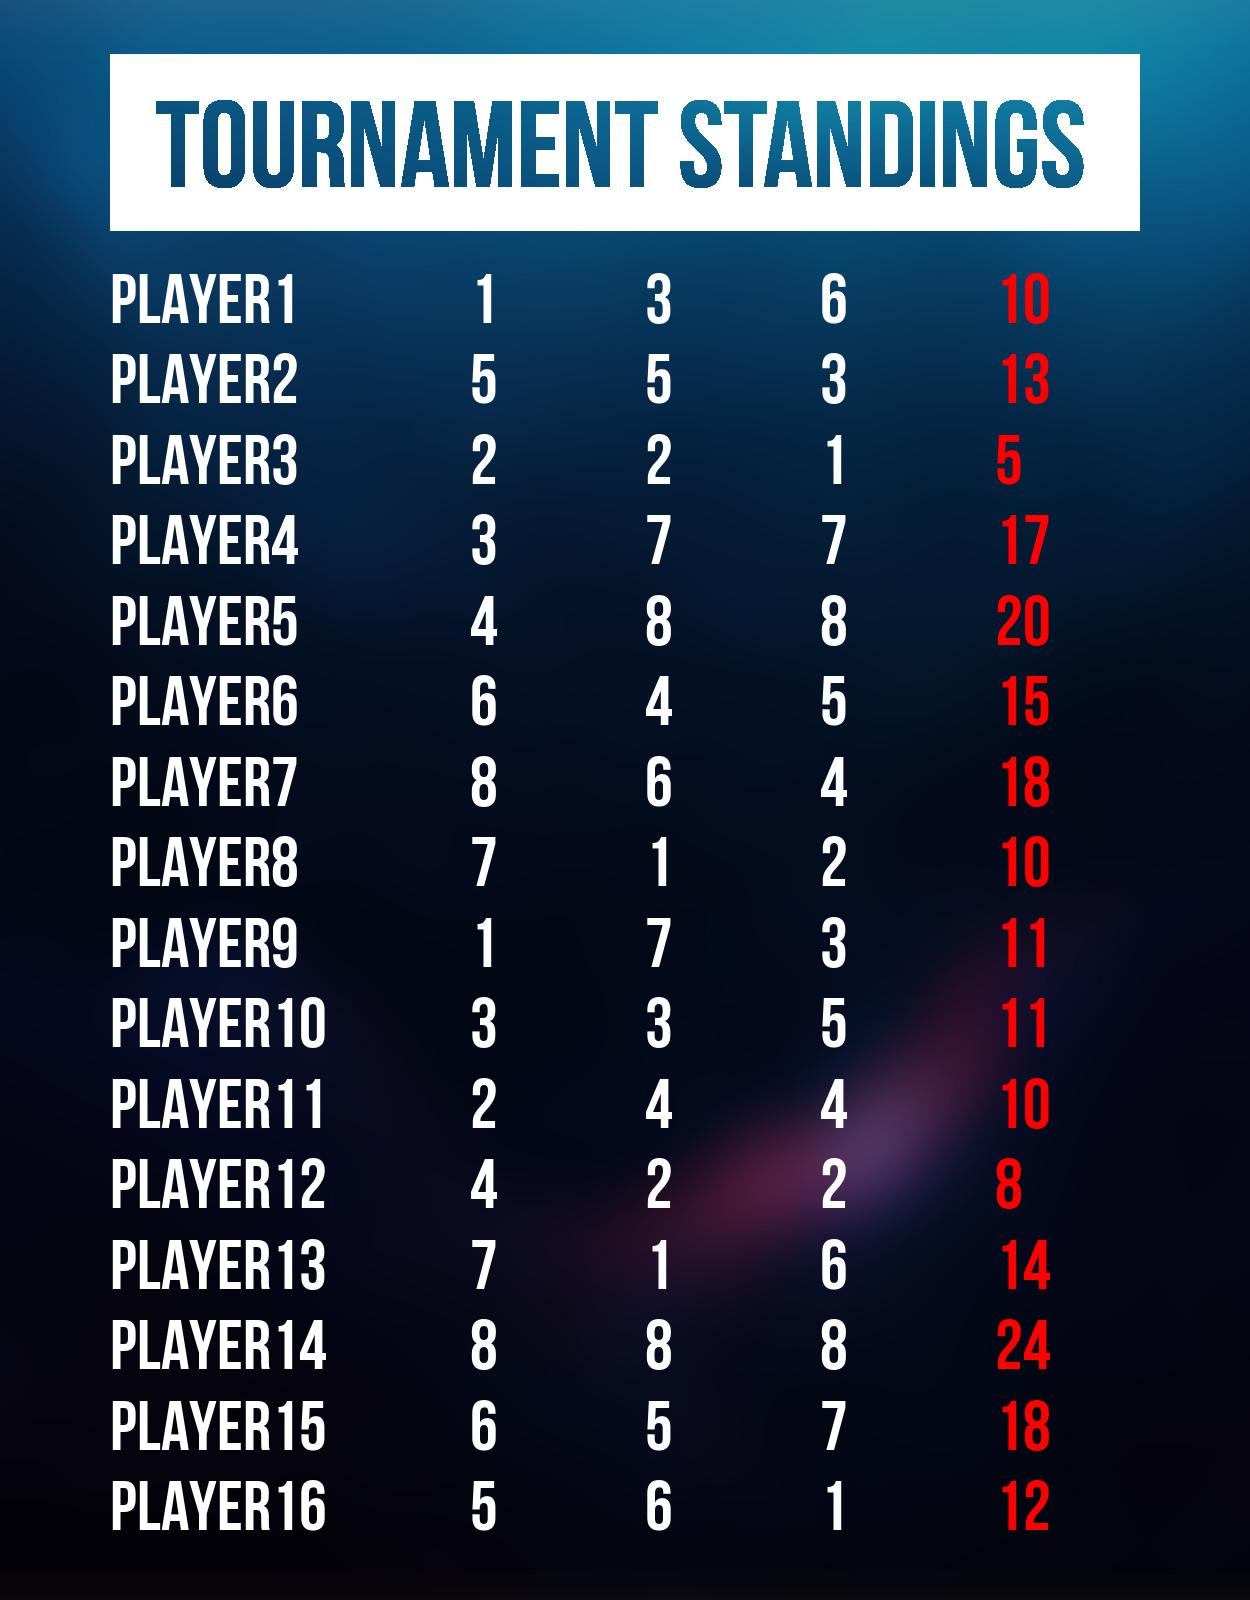
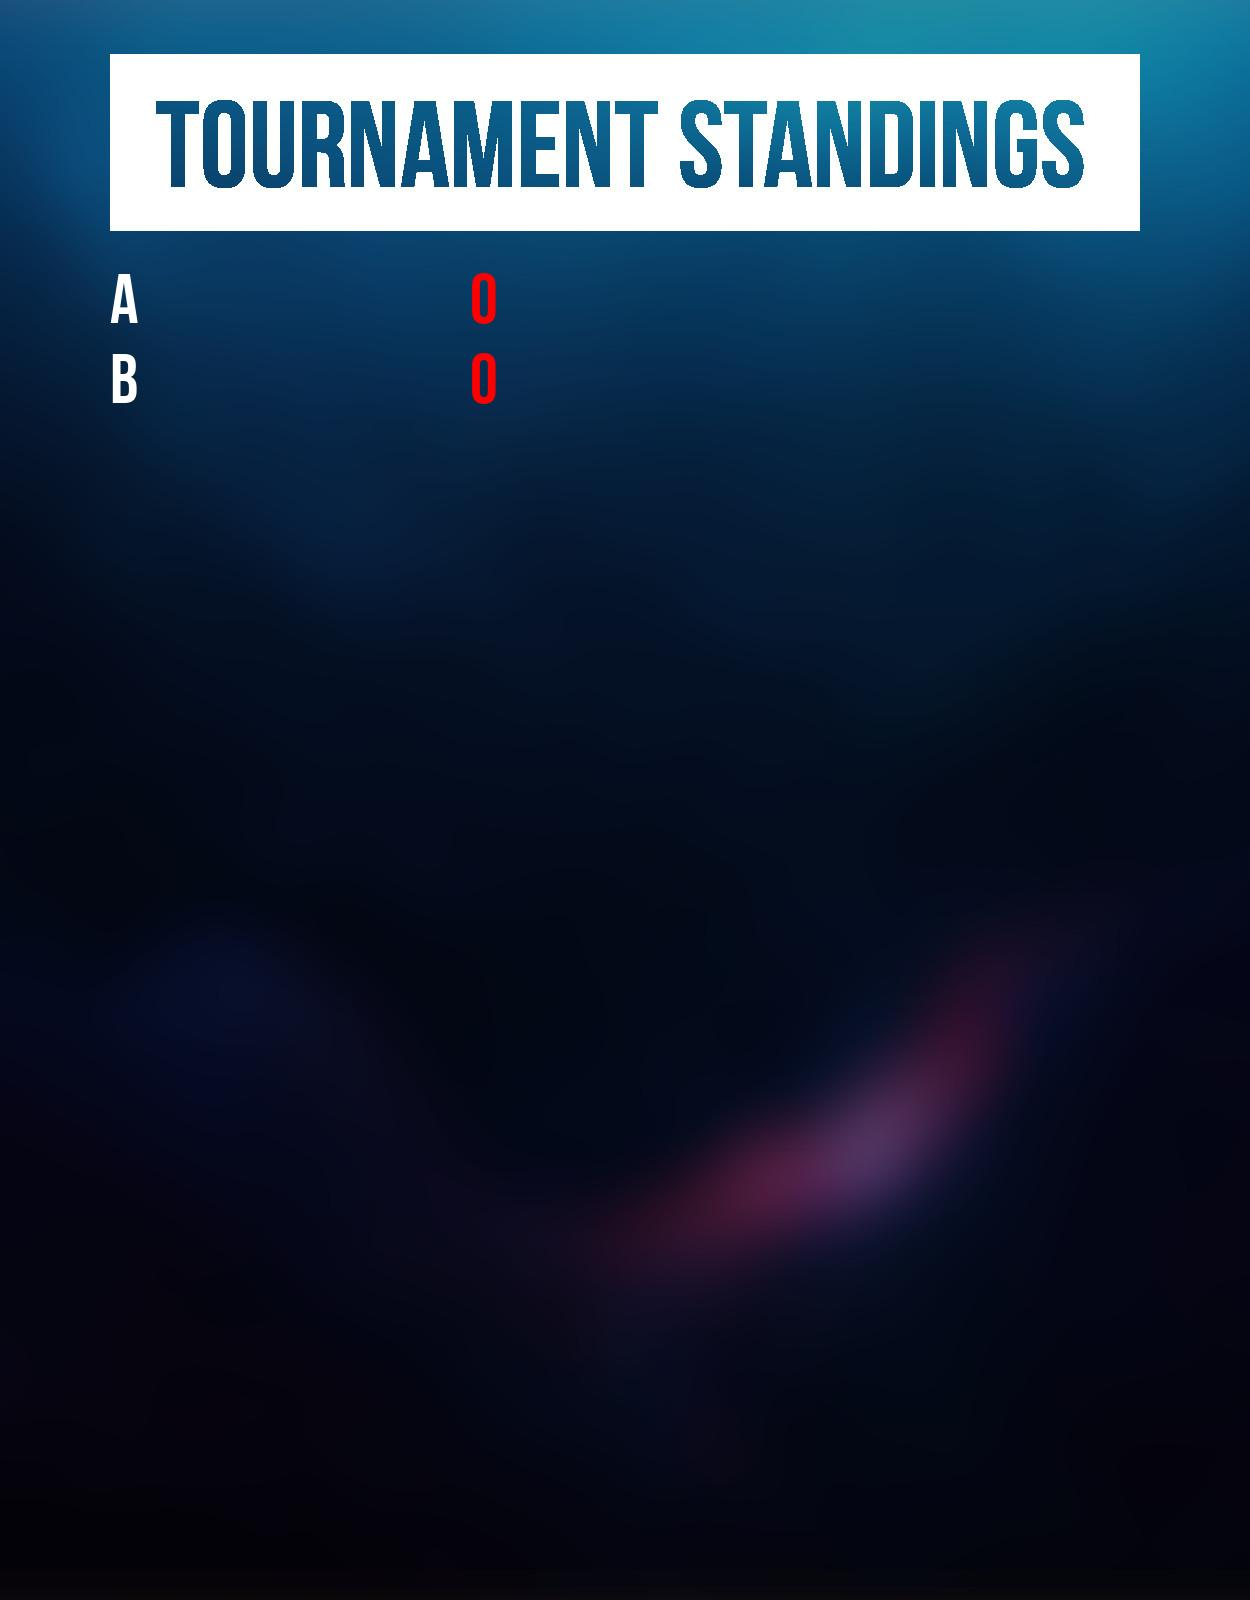
Added and refactored to use player object, added Discord bot commands to render/publish images

diff --git a/scoreboard.py b/scoreboard.py
@@ -1,48 +1,222 @@
+import os
 from PIL import Image
 from PIL import ImageDraw
 from PIL import ImageFont
+import discord
 
 playerDict = {}  # KEY: Player name, VAL: Array of scores
 fontSize = 70
-img = Image.open("standings_empty.jpg")
-draw = ImageDraw.Draw(img)
 fontName = ""
 font = ImageFont.truetype(fontName, fontSize)
-textHorizontalPos = 110
+textHorizontalPos = 80
 textVerticalPos = 270
-nameSpacing = fontSize*2.65
+nameSpacing = fontSize * 2.85
+spacingPerScore = 8
+firstAndTotalTextSpacing = 1255
+
+render_input_image = "input_render.jpg"
+publish_input_image = "input_publish2.jpg"  # Must be absolute path when deployed for whatever reason
+
+render_image_filename = "render"
+publish_image_filename = "publish"
+
+# ENVIRONMENT VARIABLES
+verifiedUsers = [0]
+publishChannelID = 0
+
+
+class PlayerData:
+    def __init__(self, player_name):
+        self.name = player_name
+        self.scores = []
+        self.total = 0
+        self.placement = -1
+        self.first_places = 0
+
+    def add_score(self, score):
+        score = int(score)
+        self.scores.append(score)
+        self.total += score
+        if score == 1:
+            self.first_places += 1
+
+    def remove_score(self):
+        if self.scores:
+            self.total -= self.scores[-1]
+            del self.scores[-1]
+
+    def get_player_scores(self):
+        return self.scores
+
+    def set_placement(self, placement):
+        self.placement = placement
 
 
 def add_player(player):
     if player not in playerDict:
-        playerDict[player] = []
+        playerDict[player] = PlayerData(player)
 
 
 def remove_player(player):
     playerDict.pop(player, None)
 
 
-def add_player_score(player, new_score):
-    playerDict[player].append(new_score)
+def view_all_players():
+    players = []
+    for player in playerDict:
+        players.append(player)
+    return players
 
 
-def remove_player_score(player):
-    del playerDict[player][-1]
+def clear_all():
+    print("Clear...")
+
+
+def render_image(image_filename, input_image, data):
+    img = Image.open(input_image)
+    draw = ImageDraw.Draw(img)
+    player_counter = 0
+    for player in data:
+        placement = str(player[0])
+        name = player[1]
+        scores = player[2]
+        first_places = str(player[3])
+        total = str(player[4])
+
+        draw.text((textHorizontalPos, textVerticalPos + player_counter * fontSize * 1.15), placement + ".",
+                  (255, 255, 255), font=font)
+        draw.text((textHorizontalPos + 90, textVerticalPos + player_counter * fontSize * 1.15), name,
+                  (255, 255, 255), font=font)
+        score_counter = 1
+        for score in scores:
+            draw.text((textHorizontalPos + nameSpacing + score_counter * spacingPerScore * fontSize / 4,
+                       textVerticalPos + player_counter * fontSize * 1.15), str(score), (255, 255, 255), font=font)
+            score_counter += 1
+
+        rect_width = 220
+        rect_height = 60
+        rect_hori_spacing = 15
+        rect_vert_spacing = 30
+        vertical_position = textVerticalPos + player_counter * fontSize * 1.15
+        draw.rectangle([(textHorizontalPos + firstAndTotalTextSpacing - rect_width/2 + rect_hori_spacing,
+                         vertical_position - rect_height/2 + rect_vert_spacing),
+                       (textHorizontalPos + firstAndTotalTextSpacing + rect_width/2 + rect_hori_spacing,
+                        vertical_position + rect_height/2 + rect_vert_spacing)],
+                       fill=(255, 255, 255))
+        draw.text((textHorizontalPos + firstAndTotalTextSpacing, vertical_position),
+                  first_places, (255, 0, 0), font=font)
+        draw.rectangle([(textHorizontalPos + firstAndTotalTextSpacing - rect_width / 2 + rect_hori_spacing + 330,
+                         vertical_position - rect_height / 2 + rect_vert_spacing),
+                        (textHorizontalPos + firstAndTotalTextSpacing + rect_width / 2 + rect_hori_spacing + 330,
+                         vertical_position + rect_height / 2 + rect_vert_spacing)],
+                       fill=(255, 255, 255))
+        draw.text((textHorizontalPos + firstAndTotalTextSpacing + 330, vertical_position),
+                  total, (255, 0, 0), font=font)
+        player_counter += 1
+    img.save(image_filename + ".jpg")
+
+
+def generate_ordered_dict():
+    updated_player_dict = {}
+    for player in playerDict:
+        player_data = playerDict[player]
+        key = player_data.total
+        if key not in updated_player_dict:
+            updated_player_dict[key] = [player_data]
+        else:
+            updated_player_dict[key].append(player_data)
+    return [updated_player_dict, sorted(updated_player_dict.keys())]
+
+
+def format_scoreboard_data(ordered_data):
+    updated_player_dict = ordered_data[0]
+    ordered_keys = ordered_data [1]
+    placement = 1
+    formatted_data = []
+    for score in ordered_keys:
+        players_with_score = updated_player_dict[score]
+        for playerData in players_with_score:
+            name = playerData.name
+            scores = playerData.scores
+            first_places = playerData.first_places
+            total = playerData.total
+            formatted_data.append([placement, name, scores, first_places, total])
+            playerData.placement = placement
+        placement += 1
+    return formatted_data
 
 
 def render_player_scores():
-    player_counter = 0
-    for player in playerDict:
-        draw.text((textHorizontalPos, textVerticalPos + player_counter * fontSize * 1.15), player,
-                  (255, 255, 255), font=font)
-        score_counter = 1
-        total_score = 0
-        for score in playerDict[player]:
-            draw.text((textHorizontalPos + nameSpacing + score_counter * 10 * fontSize/4,
-                       textVerticalPos + player_counter * fontSize * 1.15), score, (255, 255, 255), font=font)
-            score_counter += 1
-            total_score += int(score)
-        draw.text((textHorizontalPos + nameSpacing + score_counter * 10 * fontSize/4,
-                   textVerticalPos + player_counter * fontSize * 1.15), str(total_score), (255, 0, 0), font=font)
-        player_counter += 1
-    img.save("output.jpg")
+    ordered_dict = generate_ordered_dict()
+    scoreboard_data = format_scoreboard_data(ordered_dict)
+    render_image(render_image_filename, render_input_image, scoreboard_data)
+    render_image(publish_image_filename, publish_input_image, scoreboard_data)
+
+
+client = discord.Client()
+
+
+@client.event
+async def on_ready():
+    print('Logged in as {0.user}'.format(client))
+
+
+@client.event
+async def on_message(message):
+    if message.author.id in verifiedUsers:
+        if message.content.startswith("/"):
+            command = message.content[1:]
+            keyword = command.partition(' ')[0]
+            value = command.partition(' ')[2]
+            if keyword == "addPlayer":
+                add_player(value)
+                await message.channel.send(value + " has been added to the list of players.")
+            elif keyword == "removePlayer":
+                try:
+                    remove_player(value)
+                    await message.channel.send(value + " has been removed from the list of players.")
+                except:
+                    await message.channel.send("Player could not be removed. Please ensure"
+                                               "they exist in the player list.")
+            elif keyword == "addScore":
+                try:
+                    player = value.partition(' ')[0]
+                    score = value.partition(' ')[2]
+                    playerDict[player].add_score(score)
+                    await message.channel.send("Score of " + score + " has been added to " + player + "'s total score.")
+                except:
+                    await message.channel.send("An error occurred. Please check that you spelled the player's name"
+                                               "correctly (case-sensitive), and that you included a score to set as"
+                                               "well (should be in the form /addScore playerName score")
+            elif keyword == "removeScore":
+                try:
+                    playerDict[value].remove_score()
+                    await message.channel.send(value + "'s most recent score has been removed.")
+                except:
+                    await message.channel.send("Player not found or player has no scores to remove.")
+            elif keyword == "render":
+                render_player_scores()
+                await message.channel.send(
+                    file=discord.File(render_image_filename + ".jpg"))
+            elif keyword == "getScores":
+                await message.channel.send(playerDict[value].get_player_scores())
+            elif keyword == "getPlayers":
+                await message.channel.send(view_all_players())
+            elif keyword == "clear":
+                clear_all()
+                await message.channel.send("All player and score information cleared.")
+            elif keyword == "publish":
+                try:
+                    publish_channel = client.get_channel(publishChannelID)
+                    await publish_channel.send("Current player standings:")
+                    await publish_channel.send(
+                        file=discord.File(publish_image_filename + ".jpg"))
+                except:
+                    await message.channel.send("Error locating image or error locating channel to send to.")
+            elif keyword == "help":
+                print(generate_ordered_dict())
+                await message.channel.send("List of commands: /addPlayer /removePlayer /addScore /removeScore"
+                                           " /render /getScores /getPlayers /clear /publish /help")
+
+
+client.run(os.environ["BOT_TOKEN"])

diff --git a/scoreboard_backup.py b/scoreboard_backup.py
@@ -1,0 +1,137 @@
+import os
+from PIL import Image
+from PIL import ImageDraw
+from PIL import ImageFont
+import discord
+
+playerDict = {}  # KEY: Player name, VAL: Array of scores
+fontSize = 70
+input_image = "input_publish.jpg"
+fontName = os.environ.get('FONT_NAME')
+font = ImageFont.truetype(fontName, fontSize)
+textHorizontalPos = 110
+textVerticalPos = 270
+nameSpacing = fontSize*2.65
+
+#ENVIRONMENT VARIABLES
+verifiedUsers = [160296617382117377]
+publishChannelID = 546495546198589440
+
+
+def add_player(player):
+    if player not in playerDict:
+        playerDict[player] = []
+
+
+def remove_player(player):
+    playerDict.pop(player, None)
+
+
+def add_player_score(player, new_score):
+    playerDict[player].append(new_score)
+
+
+def remove_player_score(player):
+    del playerDict[player][-1]
+
+
+def view_all_players():
+    players = []
+    for player in playerDict:
+        players.append(player)
+    return players
+
+
+def view_player_scores(player):
+    return playerDict[player]
+
+
+def clear_all():
+    playerDict.clear()
+
+
+def render_player_scores():
+    img = Image.open(input_image)
+    draw = ImageDraw.Draw(img)
+    player_counter = 0
+    for player in playerDict:
+        draw.text((textHorizontalPos, textVerticalPos + player_counter * fontSize * 1.15), player,
+                  (255, 255, 255), font=font)
+        score_counter = 1
+        total_score = 0
+        for score in playerDict[player]:
+            draw.text((textHorizontalPos + nameSpacing + score_counter * 10 * fontSize/4,
+                       textVerticalPos + player_counter * fontSize * 1.15), score, (255, 255, 255), font=font)
+            score_counter += 1
+            total_score += int(score)
+        draw.text((textHorizontalPos + nameSpacing + score_counter * 10 * fontSize/4,
+                   textVerticalPos + player_counter * fontSize * 1.15), str(total_score), (255, 0, 0), font=font)
+        player_counter += 1
+    img.save("output.jpg")
+
+
+client = discord.Client()
+
+
+@client.event
+async def on_ready():
+    print('Logged in as {0.user}'.format(client))
+
+
+@client.event
+async def on_message(message):
+    if message.author.id in verifiedUsers:
+        if message.content.startswith("/"):
+            command = message.content[1:]
+            keyword = command.partition(' ')[0]
+            value = command.partition(' ')[2]
+            if keyword == "addPlayer":
+                add_player(value)
+                await message.channel.send(value + " has been added to the list of players.")
+            elif keyword == "removePlayer":
+                try:
+                    remove_player(value)
+                    await message.channel.send(value + " has been removed from the list of players.")
+                except:
+                    await message.channel.send("Player could not be removed. Please ensure"
+                                               "they exist in the player list.")
+            elif keyword == "addScore":
+                try:
+                    player = value.partition(' ')[0]
+                    score = value.partition(' ')[2]
+                    add_player_score(player, score)
+                    await message.channel.send("Score of " + score + " has been added to " + player + "'s total score.")
+                except:
+                    await message.channel.send("An error occurred. Please check that you spelled the player's name"
+                                               "correctly (case-sensitive), and that you included a score to set as"
+                                               "well (should be in the form /addScore playerName score")
+            elif keyword == "removeScore":
+                try:
+                    remove_player_score(value)
+                    await message.channel.send(value + "'s most recent score has been removed.")
+                except:
+                    await message.channel.send("Player not found or player has no scores to remove.")
+            elif keyword == "render":
+                render_player_scores()
+                await message.channel.send(file=discord.File('output.jpg'))
+            elif keyword == "getScores":
+                await message.channel.send(view_player_scores(value))
+            elif keyword == "getPlayers":
+                await message.channel.send(view_all_players())
+            elif keyword == "clear":
+                clear_all()
+                await message.channel.send("All player and score information cleared.")
+            elif keyword == "publish":
+                try:
+                    publish_channel = client.get_channel(publishChannelID)
+                    await publish_channel.send("Current player standings:")
+                    await publish_channel.send(file=discord.File('output.jpg'))
+                except:
+                    await message.channel.send("Error locating image or error locating channel to send to.")
+            elif keyword == "help":
+                await message.channel.send("List of commands: /addPlayer /removePlayer /addScore /removeScore"
+                                           "/render /getScores /getPlayers /clear /publish /help")
+
+client.run(os.environ.get('BOT_TOKEN'))
+
+### Refactot to use error codes instead
